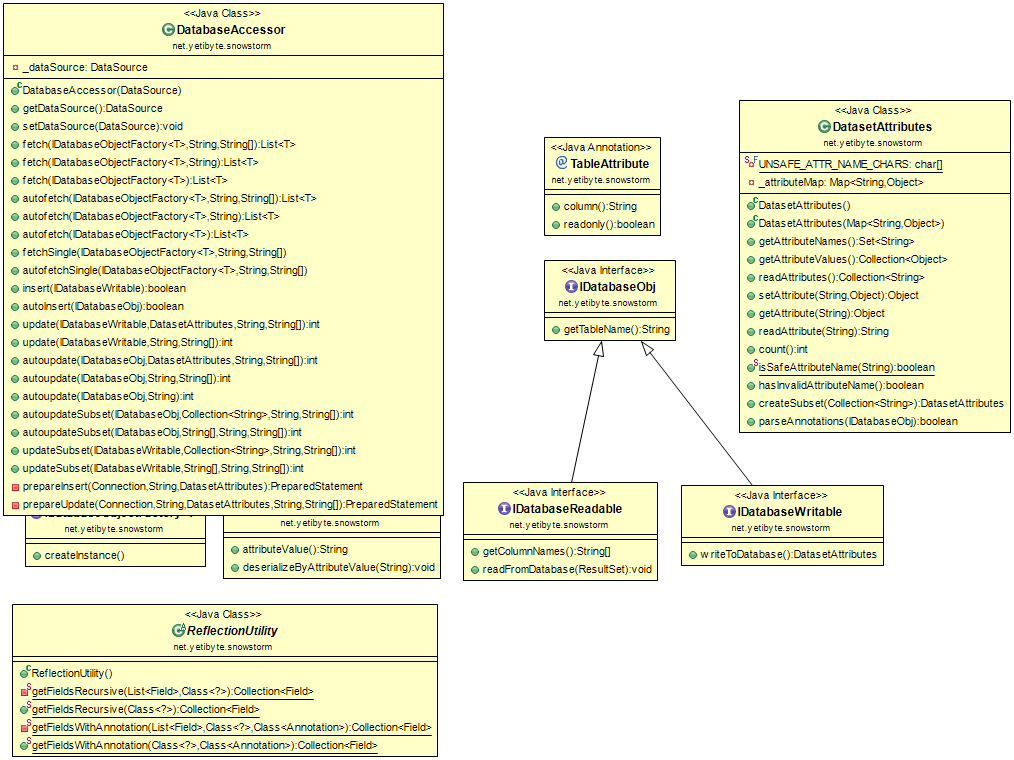
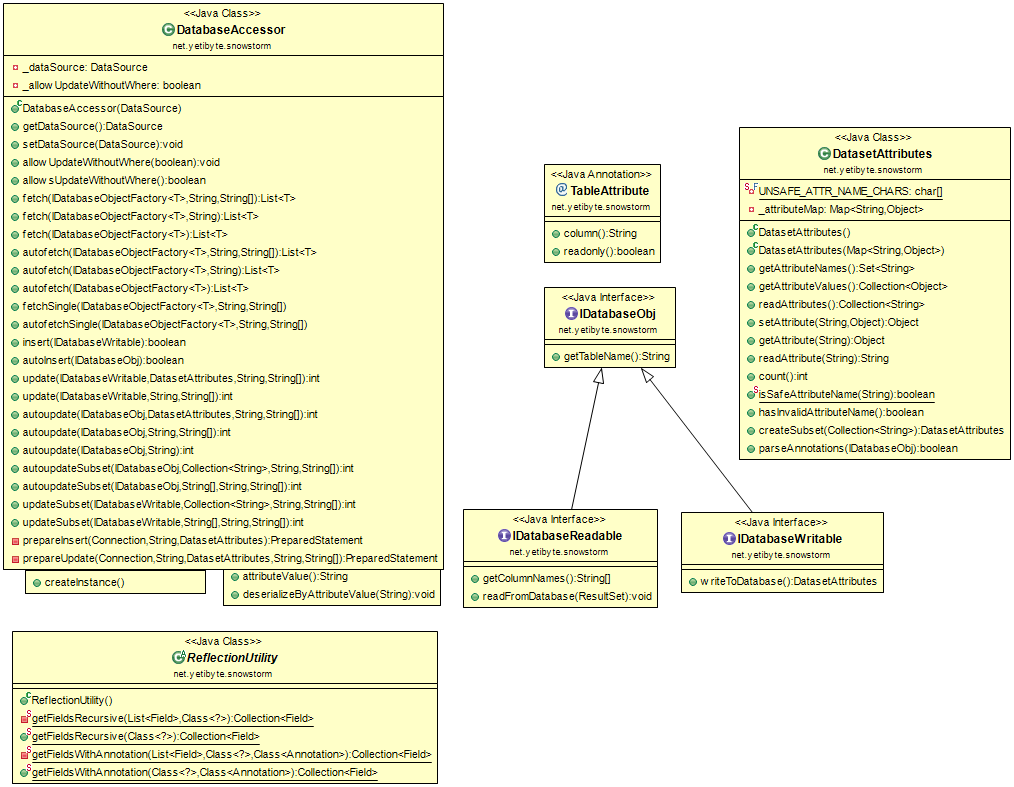
added support for disallowing update operations whithout a where clause

Changed region(s): [[0.0, 0.0, 1.0, 0.9987], [0.5197, 0.1816, 0.6726, 0.5145], [0.6726, 0.5447, 0.7032, 0.575]]

diff --git a/snowstORM/src/net/yetibyte/snowstorm/DatabaseAccessor.java b/snowstORM/src/net/yetibyte/snowstorm/DatabaseAccessor.java
@@ -21,6 +21,8 @@ public class DatabaseAccessor {
 	 */
 	private DataSource _dataSource = null;
 	
+	private boolean _allowUpdateWithoutWhere = true;
+	
 	// Constructors
 	
 	/**
@@ -41,6 +43,16 @@ public class DatabaseAccessor {
 	
 	public void setDataSource(DataSource dataSource) {
 		_dataSource = dataSource;	
+	}
+	
+	public void allowUpdateWithoutWhere(boolean flag) {
+		
+		_allowUpdateWithoutWhere = flag;
+		
+	}
+	
+	public boolean allowsUpdateWithoutWhere() {
+		return _allowUpdateWithoutWhere;
 	}
 	
 	// Methods
@@ -415,7 +427,7 @@ public class DatabaseAccessor {
 	 */
 	public int update(IDatabaseWritable dbObj, DatasetAttributes targetAttributes, String whereClause, String[] whereParams) {
 		
-		if(dbObj == null || _dataSource == null)
+		if(dbObj == null || _dataSource == null || (!_allowUpdateWithoutWhere && whereClause == null))
 			return -1;
 		
 		Connection connection = null;
@@ -474,7 +486,7 @@ public class DatabaseAccessor {
 	
 	public int autoupdate(IDatabaseObj dbObj, DatasetAttributes targetAttributes, String whereClause, String[] whereParams) {
 		
-		if(dbObj == null || _dataSource == null)
+		if(dbObj == null || _dataSource == null || (!_allowUpdateWithoutWhere && whereClause == null))
 			return -1;
 		
 		Connection connection = null;
@@ -538,7 +550,9 @@ public class DatabaseAccessor {
 	
 	public int autoupdateSubset(IDatabaseObj dbObj, Collection<String> attributeNames, String whereClause, String[] whereParams) {
 		
-		if(dbObj != null) {
+		boolean updateAllowed = _allowUpdateWithoutWhere || whereClause != null;
+		
+		if(dbObj != null && updateAllowed) {
 			
 			DatasetAttributes dsAttributesOriginal = new DatasetAttributes();
 			
@@ -562,7 +576,9 @@ public class DatabaseAccessor {
 	
 	public int updateSubset(IDatabaseWritable dbObj, Collection<String> attributeNames, String whereClause, String[] whereParams) {
 		
-		if(dbObj != null) {
+		boolean updateAllowed = _allowUpdateWithoutWhere || whereClause != null;
+		
+		if(dbObj != null && updateAllowed) {
 			
 			DatasetAttributes dsAttributesOriginal = dbObj.writeToDatabase();
 			
@@ -577,7 +593,9 @@ public class DatabaseAccessor {
 	
 	public int updateSubset(IDatabaseWritable dbObj, String[] attributeNames, String whereClause, String[] whereParams) {
 		
-		if(dbObj != null) {
+		boolean updateAllowed = _allowUpdateWithoutWhere || whereClause != null;
+		
+		if(dbObj != null && updateAllowed) {
 			
 			DatasetAttributes dsAttributesOriginal = dbObj.writeToDatabase();
 			
